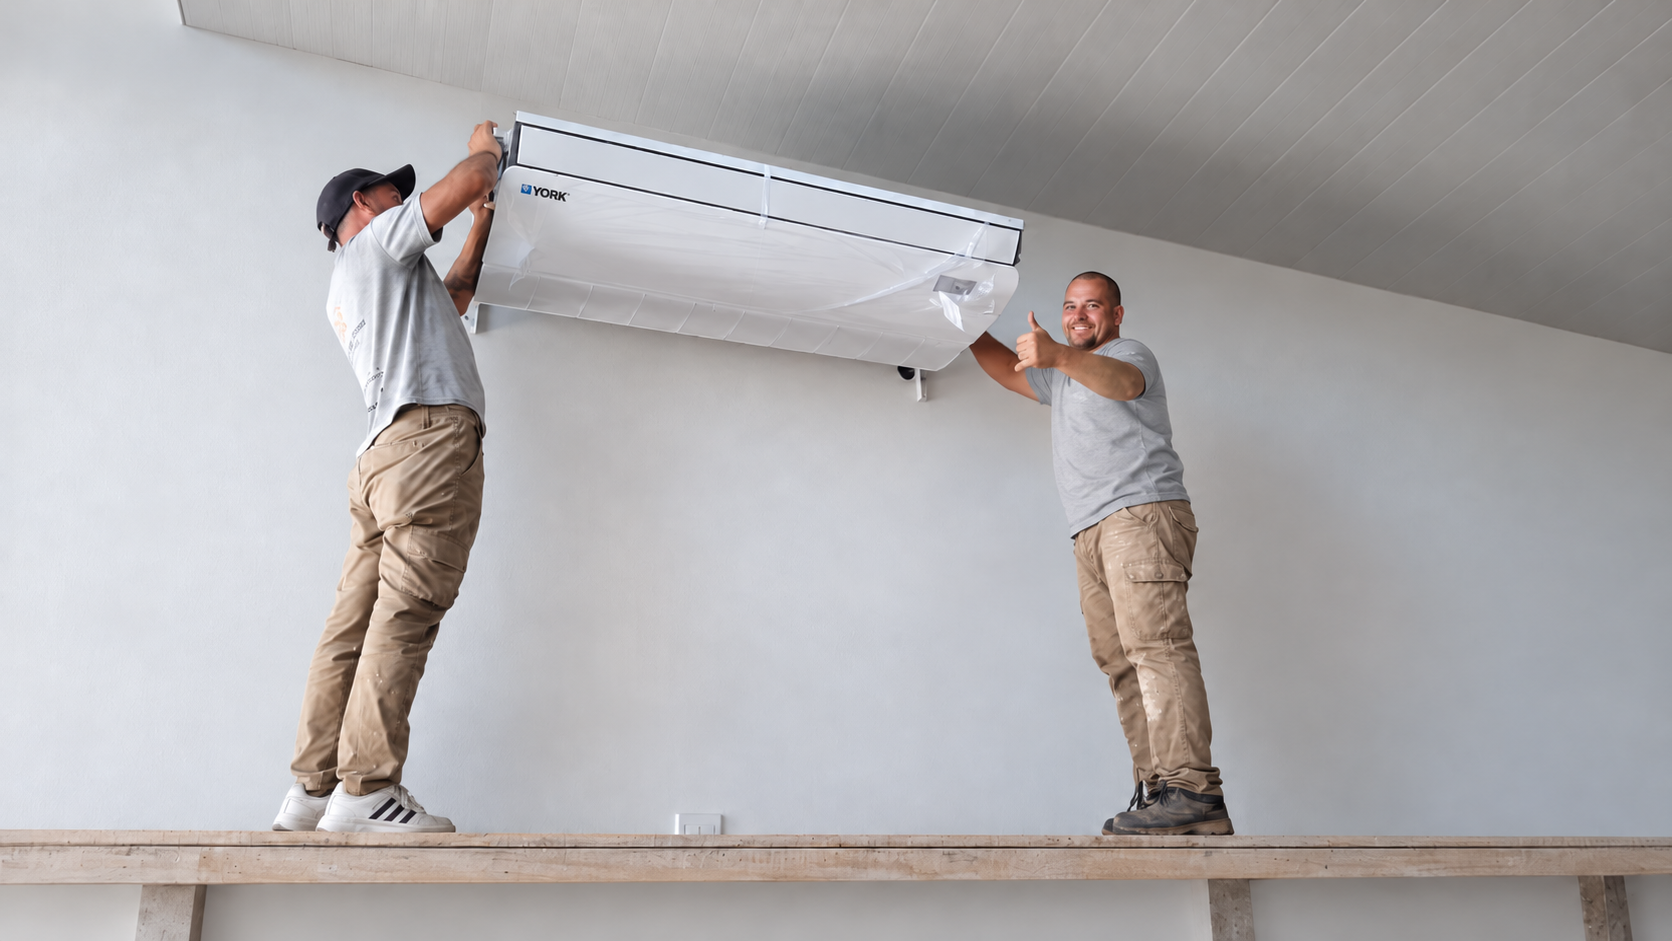
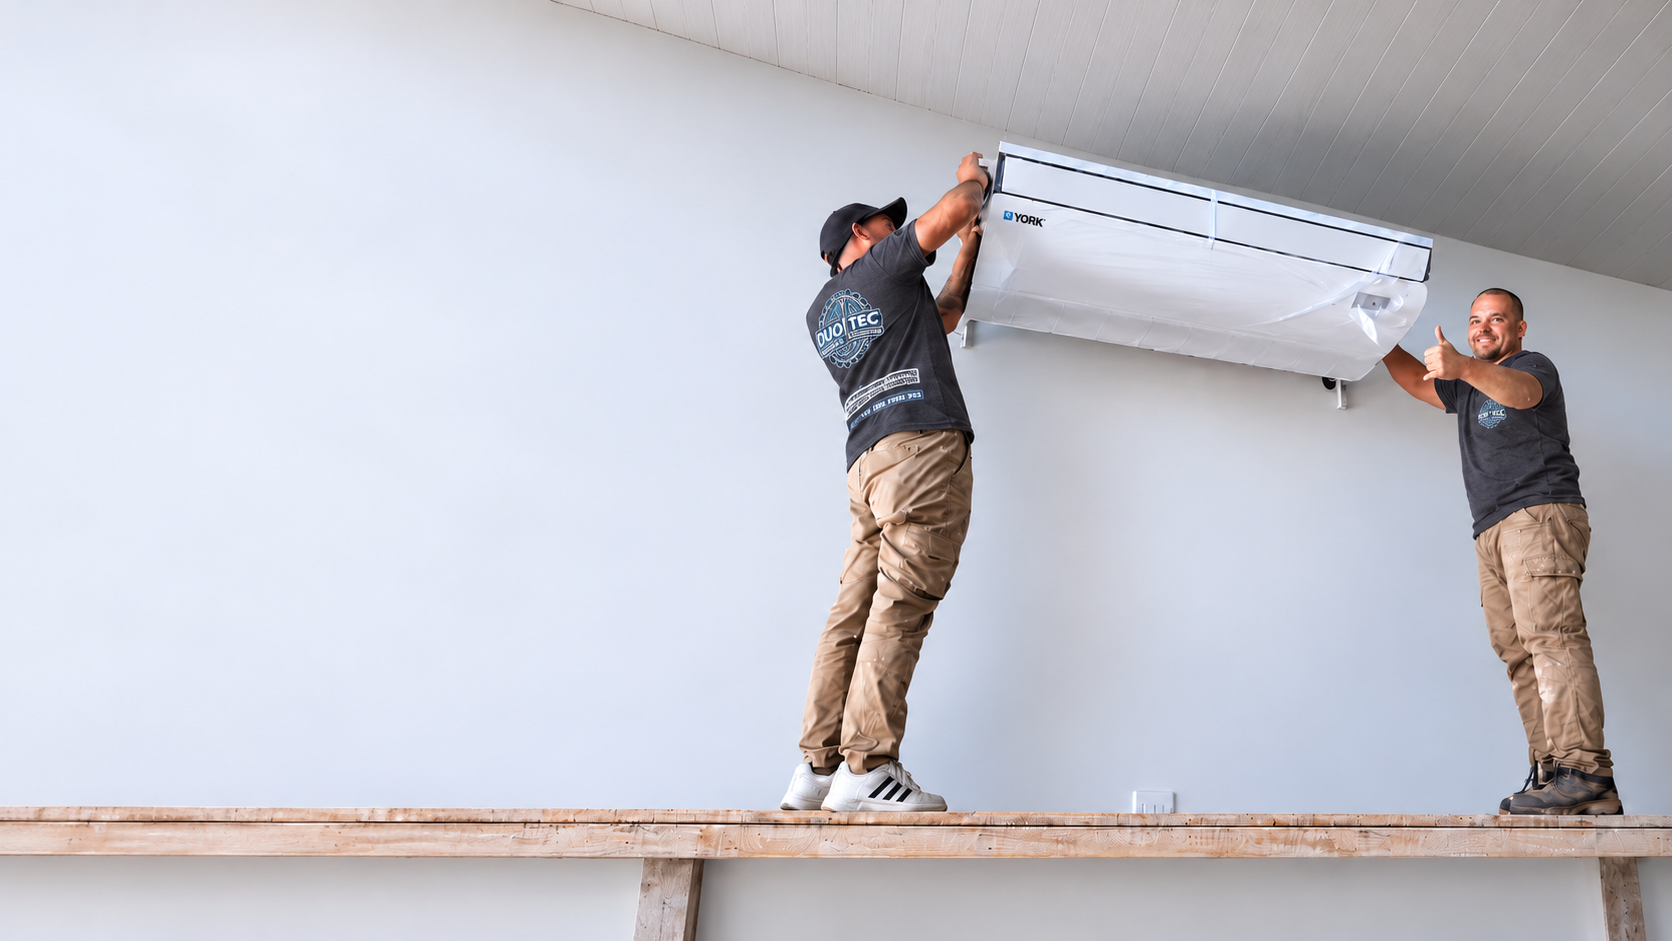
Continuamos con el estilos.css, modificamos la foto principal. Ya está la estructura básica del header y de la primera sección, quedan pulir detalles sobre colores, etc.

diff --git a/estilos.css b/estilos.css
@@ -1,3 +1,35 @@
+/* declaración de variables para los colores principales */
+:root {
+    --azul-oscuro: #19376E;
+    /*Header y footer*/
+
+    --azul-titulos: #061B61;
+    /*Titulos principales*/
+
+    --azul-botones: #006CFD;
+    /*Botones principales*/
+
+    --celeste: #17B8F8;
+    /*Detalles e indicadores*/
+
+    --texto-secundario: #455A7A;
+    /*Textos secundarios*/
+
+    --fondo-celeste: #ECF6FE;
+    /*Fondos de secciones*/
+
+    --fondo-iconos: #E8F4FF;
+    /*Fondos de íconos*/
+
+    --bordes: #D8EAFD;
+    /*Bordes de tarjetas*/
+
+    --blanco: #FFFFFF;
+    /*Tarjetas y fondos*/
+}
+
+
+
 body {
     margin: 0;
 }
@@ -12,9 +44,10 @@ header {
     align-items: center;
     gap: 20px;
     padding: 16px 32px;
-    background-color: #1C3163;
+    background-color: var(--azul-oscuro);
     color: white;
     flex-wrap: wrap;
+
 }
 
 header img {
@@ -36,4 +69,68 @@ header nav a {
 header nav a.activo {
     border-bottom: 3px solid #61aff9;
     padding-bottom: 6px;
+}
+
+
+p.refYServicio {
+    margin-top: 0;
+}
+
+section.presentacion {
+    margin: 0 auto;
+    background-image: url("imagenes/FotoPrincipal.png");
+    width: 100%;
+    aspect-ratio: 16 / 9;
+    background-size: cover;
+    background-position: center;
+    background-repeat: no-repeat;
+}
+
+.presentacion {
+    display: flex;
+    justify-content: center;
+    flex-direction: column;
+
+
+}
+
+.presentacion .contenedor {
+    padding: 30px;
+}
+
+.presentacion h1 {
+    color: var(--azul-titulos);
+    font-size: clamp(1.5rem, 15vw, 7rem);
+
+}
+
+.presentacion .infoChica {
+    color: var(--texto-secundario);
+    max-width: 720px;
+    font-size: clamp(1.5rem, 15vw, 2.5rem);
+    margin-top: 10px;
+}
+
+p.refSer {
+    font-size: 30px;
+    margin-bottom: 10px;
+    color: rgba(1, 17, 72, 0.8);
+    font-weight: 900;
+}
+
+.textoPresentacion p,
+.textoPresentacion h1 {
+    margin-top: 0;
+    margin-bottom: 0;
+}
+
+.botonesConsultas {
+    margin-top: 15px;
+}
+
+#consultarWhatsapp {
+    background-color: #034aff;
+    padding: 10px;
+    border-radius: 10px;
+    text-decoration: none;
 }

diff --git a/index.html b/index.html
@@ -23,22 +23,30 @@
 
     <main>
       <section class="presentacion">
-        <p class="refYServicio">REFRIGERACIÓN Y SERVICIO TÉCNICO</p>
-        <h1>Tu equipo, en buenas manos.</h1>
-        <p class="infoChica">
-          Instalación, mantenimiento y reparación para tu hogar y tu comercio.
-        </p>
-        <div class="botonesConsultas">
-          <a
-            href="https://wa.me/5492664207109"
-            id="consultarWhatsapp"
-            target="_blank"
-            >Consultar por WhatsApp</a
-          >
+        <div class="contenedor">
+          <div class="textoPresentacion">
+            <p class="refSer">REFRIGERACIÓN Y SERVICIO TÉCNICO</p>
+            <h1>
+              Dejá tu equipo <br />
+              en buenas manos.
+            </h1>
+            <p class="infoChica">
+              Instalación, mantenimiento y reparación para tu hogar y tu
+              comercio.
+            </p>
+          </div>
+          <div class="botonesConsultas">
+            <a
+              href="https://wa.me/5492664207109"
+              id="consultarWhatsapp"
+              target="_blank"
+              >Consultar por WhatsApp</a
+            >
 
-          <a href="servicios.html" id="verServicios"> Ver servicios </a>
+            <a href="servicios.html" id="verServicios"> Ver servicios </a>
+          </div>
+          <p>Santa Rosa del Conlara, Merlo y alrededores.</p>
         </div>
-        <p>Santa Rosa del Conlara, Merlo y alrededores.</p>
       </section>
 
       <section class="servicios">
